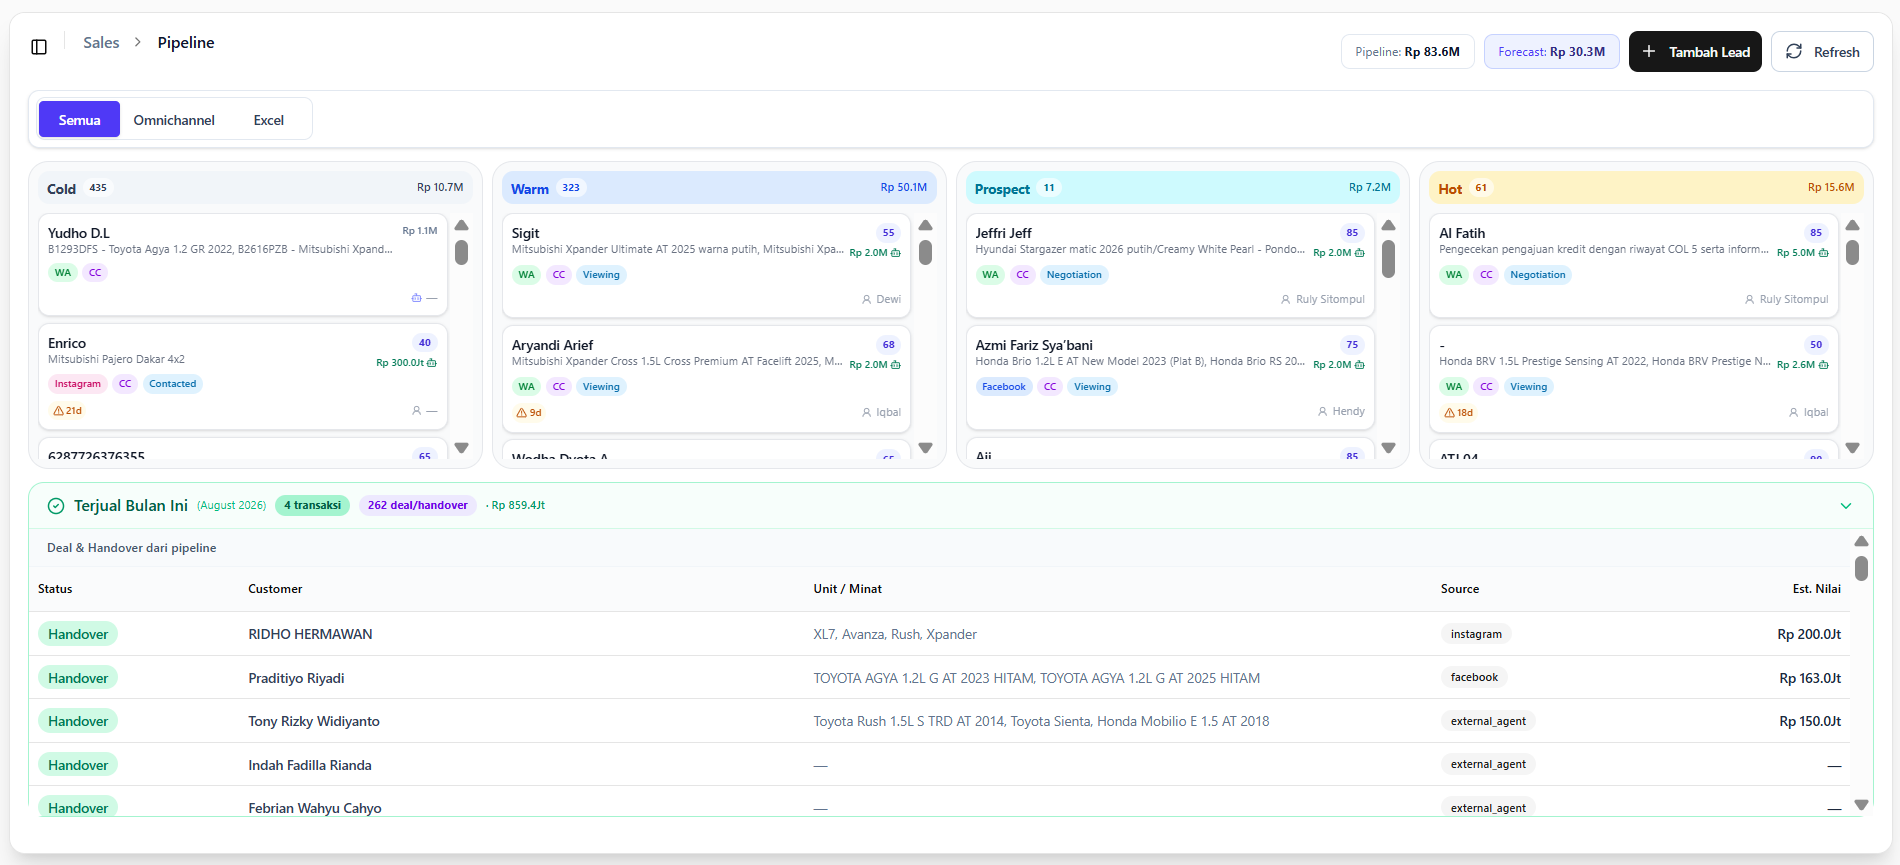
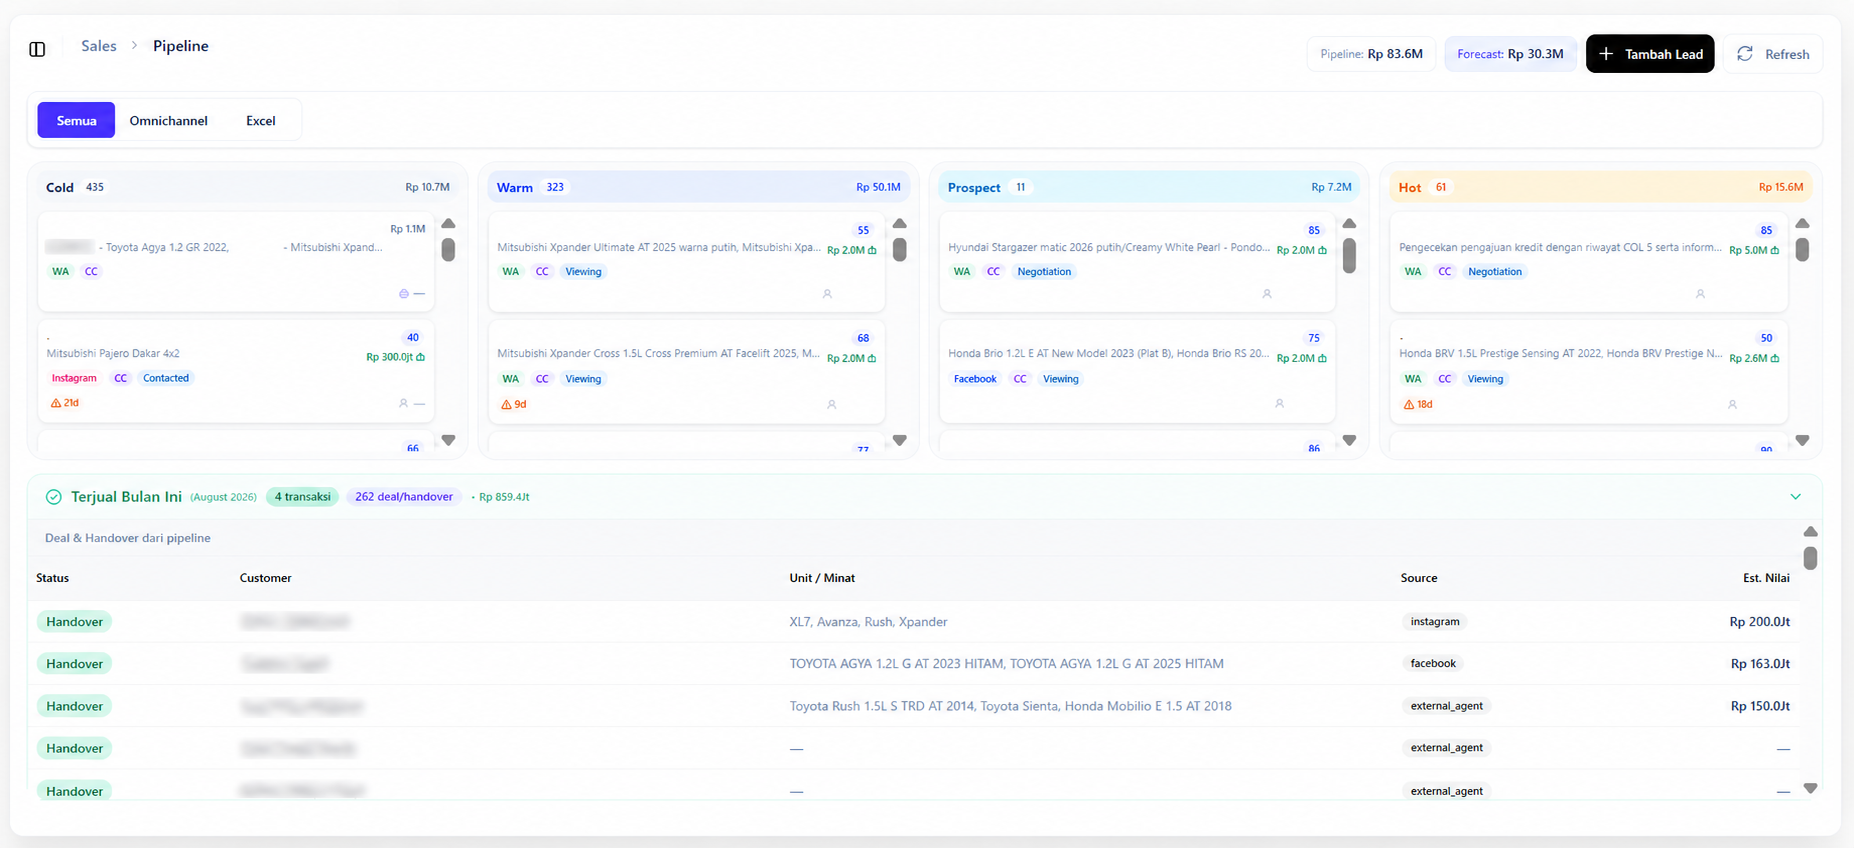
Pasang screenshot anonim fitur manajemen kontak

diff --git a/fitur/feature-page.js b/fitur/feature-page.js
@@ -620,12 +620,20 @@
 
     // Tiap capability diarahkan ke state produk yang relevan. Urutannya sengaja
     // semantik dan tidak bergantung pada nomor kartu/rotasi screenshot umum.
-    if (slug === "manajemen-kontak" && index === 2) {
+    if (slug === "manajemen-kontak" && index === 1) {
       preview = captured(
-        "manajemen-kontak-pipeline-public.png",
+        "manajemen-kontak-riwayat-channel-public.png?v=20260805-2",
+        "CRM · Riwayat Channel",
+        "Riwayat chat, respons AI, takeover Call Center, dan aktivitas lead tersimpan dalam satu timeline customer.",
+        [1862, 845],
+      );
+      preview.wide = true;
+    } else if (slug === "manajemen-kontak" && index === 2) {
+      preview = captured(
+        "manajemen-kontak-pipeline-public.png?v=20260805-2",
         "CRM · Pipeline Sales",
         "Customer siap ditindaklanjuti di pipeline hingga deal dan handover tercatat dalam satu workspace.",
-        [1900, 865],
+        [1854, 848],
       );
       preview.wide = true;
     } else if (slug === "core-platform-agentic-ai" && /multi-tenant|multi-cabang/i.test(capabilityTitle)) {

diff --git a/fitur/manajemen-kontak.html b/fitur/manajemen-kontak.html
@@ -66,7 +66,7 @@
 
     <script>window.__FEATURE_SLUG__ = "manajemen-kontak";</script>
     <script src="./features-data.js"></script>
-    <script src="./feature-page.js"></script>
+    <script src="./feature-page.js?v=20260805-2"></script>
     <script src="../script.js"></script>
   </body>
 </html>
